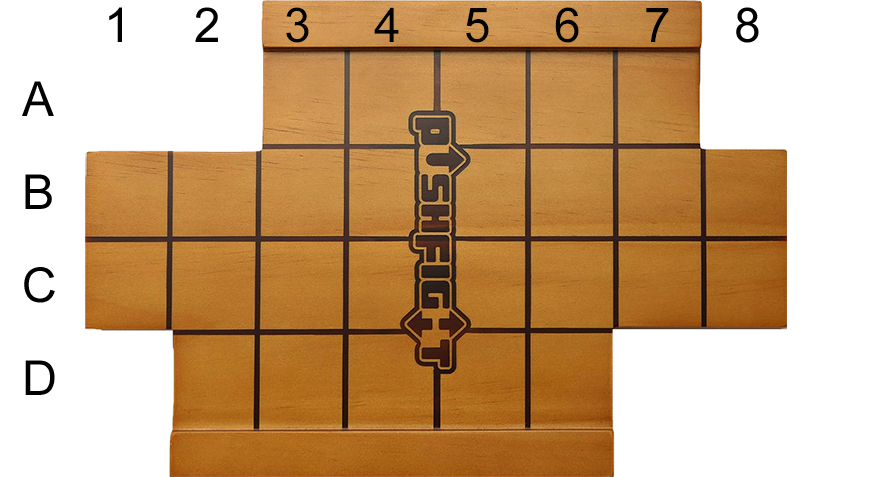
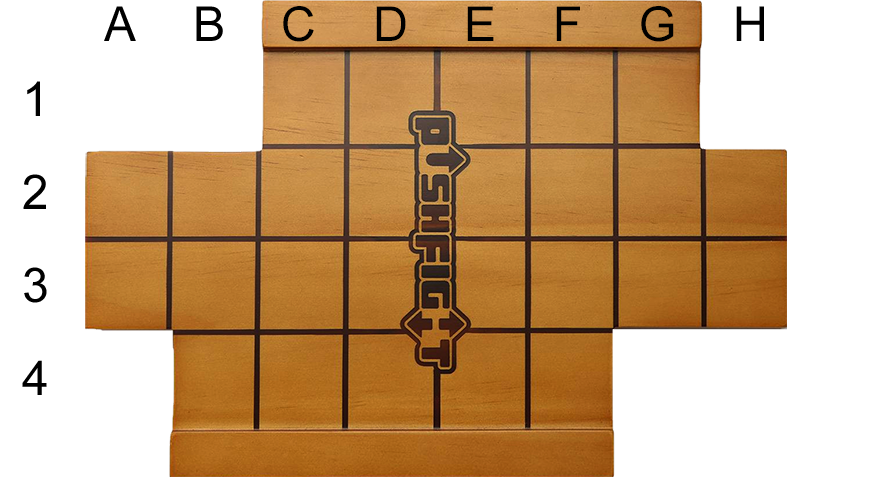
rotate the board so the native direction is left to right and fix a couple of validation bugs in the meantime

diff --git a/PushFight/Game.cs b/PushFight/Game.cs
@@ -71,16 +71,19 @@ namespace PushFight
 
         // rotated so [x,y] is how you access it
         public int[,] BoardBase = {
-                   /*y0 .. y9*/
-            /*x0*/ {0, 0, 0, 2, 2, 2, 2, 2, 0, 0},
-                   {0, 0, 0, 1, 1, 1, 1, 1, 0, 0},
-                   {0, 1, 1, 1, 1, 1, 1, 1, 1, 0},
-                   {0, 1, 1, 1, 1, 1, 1, 1, 1, 0},
-                   {0, 0, 1, 1, 1, 1, 1, 0, 0, 0},
-            /*x5*/ {0, 0, 2, 2, 2, 2, 2, 0, 0, 0}
+            {0, 0, 0, 0, 0, 0},
+            {0, 0, 1, 1, 0, 0},
+            {0, 0, 1, 1, 1, 2},
+            {2, 1, 1, 1, 1, 2},
+            {2, 1, 1, 1, 1, 2},
+            {2, 1, 1, 1, 1, 2},
+            {2, 1, 1, 1, 1, 2},
+            {2, 1, 1, 1, 0, 0},
+            {0, 0, 1, 1, 0, 0},
+            {0, 0, 0, 0, 0, 0}
         };
 
-        public Cell[,] Board = new Cell[6, 10];
+        public Cell[,] Board = new Cell[10, 6];
         public GamePhase Phase;
         public Team CurrentTeam = Team.White;
         public int RemainingMoves = 2;
@@ -128,14 +131,14 @@ namespace PushFight
                 () => { return RemainingMoves == 0 ? ECode.NoMoreMoves : ECode.Success; },
 
                 // check start space
-                () => { return x <= 0 || x >= 5 ? ECode.InvalidLocation : ECode.Success; },
-                () => { return y < 0 || y > 9 ? ECode.InvalidLocation : ECode.Success; },
+                () => { return x <= 0 || x >= Board.GetLength(0) ? ECode.InvalidLocation : ECode.Success; },
+                () => { return y < 0 || y > Board.GetLength(1) ? ECode.InvalidLocation : ECode.Success; },
                 () => { return Board[x,y].Contents.Type == PawnType.Empty ? ECode.CellIsEmpty : ECode.Success; },
                 () => { return Board[x,y].Contents.Team != CurrentTeam ? ECode.WrongTeam : ECode.Success; ;},
 
                 // check if new space is valid
-                () => { return nx <= 0 || nx >= 5 ? ECode.InvalidLocation : ECode.Success; },
-                () => { return ny< 0 || ny> 9 ? ECode.InvalidLocation : ECode.Success; },
+                () => { return nx <= 0 || nx >= Board.GetLength(0) ? ECode.InvalidLocation : ECode.Success; },
+                () => { return ny < 0 || ny > Board.GetLength(1) ? ECode.InvalidLocation : ECode.Success; },
                 () => { return Board[nx, ny].BoardType == CellType.Void ? ECode.InvalidLocation : ECode.Success; },
                 () => { return Board[nx, ny].Contents.Type != PawnType.Empty ? ECode.CellNotEmpty : ECode.Success; },
 
@@ -167,10 +170,10 @@ namespace PushFight
             {
                 () => { return Phase != GamePhase.Placement ? ECode.WrongPhase : ECode.Success; },
                 () => { return team != CurrentTeam ? ECode.WrongTeam : ECode.Success; },
-                () => { return x <= 0 || x >= 5 ? ECode.InvalidLocation : ECode.Success; },
-                () => { return y < 0 || y > 9 ? ECode.InvalidLocation : ECode.Success; },
+                () => { return x <= 0 || x >= Board.GetLength(0) ? ECode.InvalidLocation : ECode.Success; },
+                () => { return y < 0 || y >= Board.GetLength(1) ? ECode.InvalidLocation : ECode.Success; },
                 () => { return Board[x,y].BoardType != CellType.Solid ? ECode.InvalidLocation : ECode.Success; },
-                () => { return (team == Team.White && y > 4) || (team == Team.Black && y < 5) ? ECode.WrongHalf : ECode.Success; },
+                () => { return (team == Team.White && x > 4) || (team == Team.Black && x < 5) ? ECode.WrongHalf : ECode.Success; },
                 () => { return Board[x,y].Contents.Type != PawnType.Empty ? ECode.CellNotEmpty : ECode.Success; },
                 () => { return remaining.Count == 0 ? ECode.NotEnoughPieces : ECode.Success; },
             };
@@ -204,8 +207,8 @@ namespace PushFight
             var checks = new List<ErrCheck> {
                 () => { return Phase != GamePhase.Push ? ECode.WrongPhase : ECode.Success; },
                 () => { return team != CurrentTeam ? ECode.WrongTeam : ECode.Success; },
-                () => { return x <= 0 || x >= 5 ? ECode.InvalidLocation : ECode.Success; },
-                () => { return y < 0 || y > 9 ? ECode.InvalidLocation : ECode.Success; },
+                () => { return x <= 0 || x >= Board.GetLength(0) ? ECode.InvalidLocation : ECode.Success; },
+                () => { return y < 0 || y > Board.GetLength(1) ? ECode.InvalidLocation : ECode.Success; },
                 () => { return Board[x, y].Contents.Team != team ? ECode.WrongPawnTeam : ECode.Success; },
                 () => { return Board[x, y].Contents.Type != PawnType.Square ? ECode.WrongPushType : ECode.Success; },
 
@@ -229,6 +232,7 @@ namespace PushFight
             }
 
             CurrentTeam = CurrentTeam == Team.White ? Team.Black : Team.White;
+            RemainingMoves = 2;
 
             anchoredCell.Anchored = true;
             if (lastAnchored != null)

diff --git a/PushFight/Program.cs b/PushFight/Program.cs
@@ -48,7 +48,7 @@ namespace PushFight
                 Console.WriteLine("Game Over");
                 Console.WriteLine(game.Winner + " Wins!");
             }
-            Console.WriteLine("  abcd");
+            Console.WriteLine("  abcdefgh");
             for (int y = 1; y < game.Board.GetLength(1) - 1; y++)
             {
                 Console.Write(y);
@@ -108,19 +108,20 @@ namespace PushFight
                 {
                     var cmds = new List<string>
                     {
-                        "place round a4",
-                        "place round a5",
-                        "place square b4",
-                        "place square b5",
-                        "place round c4",
-                        "place round c5",
+                        "place round d1",
+                        "place round e1",
+                        "place square d2",
+                        "place square e2",
+                        "place round d3",
+                        "place round e3",
                         "place square d4",
-                        "place square d5",
-                        "place square c3",
-                        "place square c6",
-                        "p d4 d",
-                        "p b5 u",
-                        "p d5 d",
+                        "place square e4",
+                        "place square c1",
+                        "place square f4",
+                        "push c1 right",
+                        "push e2 left",
+                        "push d4 right"
+
                     };
 
                     foreach (var autocmd in cmds)

diff --git a/ImageRenderer/Program.cs b/ImageRenderer/Program.cs
@@ -11,20 +11,20 @@ class Program
 
         var cmds = new List<string>
                     {
-                        "place round a4",
-                        "place round a5",
-                        "place square b4",
-                        "place square b5",
-                        "place round c4",
-                        "place round c5",
+                        "place round d1",
+                        "place round e1",
+                        "place square d2",
+                        "place square e2",
+                        "place round d3",
+                        "place round e3",
                         "place square d4",
-                        "place square d5",
-                        "place square c3",
-                        "place square c6",
-                        "m d4",
-                        "p d4 d",
-                        "p b5 u",
-                        "p d5 d",
+                        "place square e4",
+                        "place square c1",
+                        "place square f4",
+                        "move c1",
+                        "push c1 right",
+                        "push e2 left",
+                        "push d4 right"
                     };
 
         int i = 0;
@@ -34,6 +34,7 @@ class Program
             using (FileStream outfile = File.OpenWrite("zzout_" + i + ".png"))
             {
                 var img = imgr.Render(game);
+                img.CopyTo(outfile);
             }
             i++;
         }

diff --git a/ImageRenderer/ImageRenderer.cs b/ImageRenderer/ImageRenderer.cs
@@ -29,7 +29,7 @@ namespace ImageRenderer
                 {
                     var cell = game.Board[x, y];
 
-                    var pos = new Point((int)(88.5 * y), (int)(91 * x) - 23);
+                    var pos = new Point((int)(88.5 * x), (int)(91 * y) - 23);
 
                     if (cell.Highlight)
                     {

diff --git a/PushFight/Parsers.cs b/PushFight/Parsers.cs
@@ -7,7 +7,7 @@ namespace PushFight
         public static int X(string pair)
         {
             var res = (int)pair[0];
-            if (res < 'a' || res > 'd')
+            if (res < 'a' || res > 'h')
             {
                 return -1;
             }
